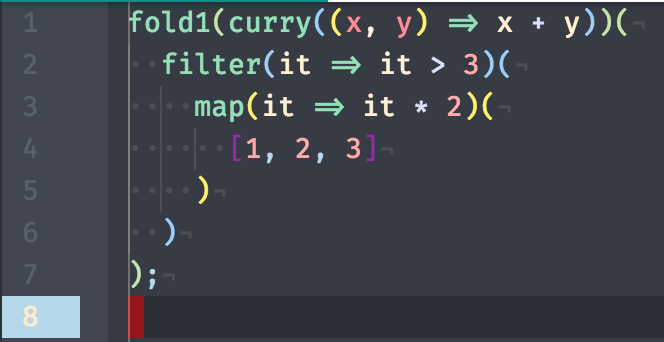
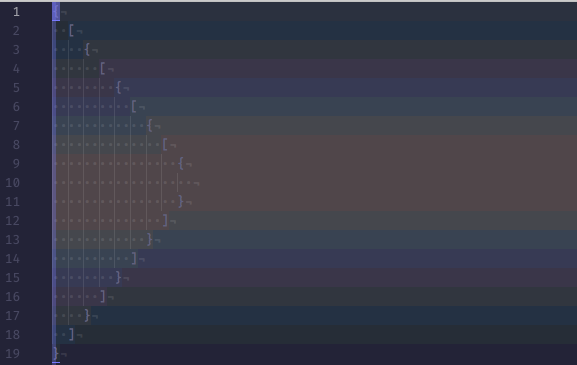
major: use highights instead of overlays

diff --git a/styles/rainbow.less b/styles/rainbow.less
@@ -4,74 +4,36 @@
 // for a full listing of what's available.
 @import "ui-variables";
 
-atom-overlay.rainbow .rainbow-item {
-  position: absolute;
-  top: -1.5em;
-  right: 0.01em;
-
-  &.rainbow-level-1 {
-    color: @ui-site-color-1;
+.highlight.rainbow {
+  &.rainbow-level-1 .region {
+    background-color: fadeout(@ui-site-color-1, 94%);
   }
 
-  &.rainbow-level-2 {
-    color: @ui-site-color-2;
+  &.rainbow-level-2 .region {
+    background-color: fadeout(@ui-site-color-2, 94%);
   }
 
-  &.rainbow-level-3 {
-    color: @ui-site-color-3;
+  &.rainbow-level-3 .region {
+    background-color: fadeout(@ui-site-color-3, 94%);
   }
 
-  &.rainbow-level-4 {
-    color: @ui-site-color-4;
+  &.rainbow-level-4 .region {
+    background-color: fadeout(@ui-site-color-4, 94%);
   }
 
-  &.rainbow-level-5 {
-    color: @text-color-info;
+  &.rainbow-level-5 .region {
+    background-color: fadeout(@text-color-info, 94%);
   }
 
-  &.rainbow-level-6 {
-    color: @text-color-success;
+  &.rainbow-level-6 .region {
+    background-color: fadeout(@text-color-success, 94%);
   }
 
-  &.rainbow-level-7 {
-    color: @text-color-warning;
+  &.rainbow-level-7 .region {
+    background-color: fadeout(@text-color-warning, 94%);
   }
 
-  &.rainbow-level-8 {
-    color: @text-color-error;
+  &.rainbow-level-8 .region {
+    background-color: fadeout(@text-color-error, 94%);
   }
 }
-
-// atom-text-editor.rainbow::shadow .rainbow {
-//   &[data-rainbow-level="0"] {
-//     color: @ui-site-color-1;
-//   }
-//
-//   &[data-rainbow-level="1"] {
-//     color: @ui-site-color-2;
-//   }
-//
-//   &[data-rainbow-level="2"] {
-//     color: @ui-site-color-3;
-//   }
-//
-//   &[data-rainbow-level="3"] {
-//     color: @ui-site-color-4;
-//   }
-//
-//   &[data-rainbow-level="4"] {
-//     color: @text-color-info;
-//   }
-//
-//   &[data-rainbow-level="5"] {
-//     color: @text-color-success;
-//   }
-//
-//   &[data-rainbow-level="6"] {
-//     color: @text-color-warning;
-//   }
-//
-//   &[data-rainbow-level="7"] {
-//     color: @text-color-error;
-//   }
-// }

diff --git a/lib/rainbow.js b/lib/rainbow.js
@@ -1,7 +1,6 @@
 'use babel'
 
-import {CompositeDisposable} from 'atom'
-import view from './view'
+import {CompositeDisposable, Range} from 'atom'
 import debounce from 'lodash.debounce'
 import escapeRegexp from 'escape-string-regexp'
 
@@ -23,9 +22,11 @@ export default {
 
   activate () {
     this.subscriptions = new CompositeDisposable()
-    let disposable = atom.workspace.observeTextEditors(editor => {
+    const disposable = atom.workspace.observeTextEditors(editor => {
       if (!this.markers.get(editor)) this.markers.set(editor, [])
-      let run = debounce(() => this.run(editor), DELAY)
+
+      const run = debounce(() => this.run(editor), DELAY)
+
       run()
       this.subscriptions.add(editor.onDidStopChanging(run))
     })
@@ -38,7 +39,7 @@ export default {
   },
 
   unmark (editor) {
-    let markers = this.markers.get(editor)
+    const markers = this.markers.get(editor)
     while (markers.length) markers.pop().destroy()
   },
 
@@ -48,14 +49,29 @@ export default {
 
   mark (editor) {
     let level = 0
+    const startPoints = []
+
     editor.scan(PAIRS_REG_EXP, result => {
-      if (PAIRS[result.matchText]) level++
-      let marker = editor.markBufferRange(result.range, {
+      if (PAIRS[result.matchText]) {
+        startPoints.push(result.range.start)
+        level++
+        return
+      }
+
+      const start = startPoints.pop()
+      console.log('RANGE', new Range(start, result.range.end))
+      const marker = editor.markBufferRange(new Range(start, result.range.end), {
         invalidate: 'never'
       })
+
       this.markers.get(editor).push(marker)
-      view(editor, marker, result.matchText, level)
-      if (!PAIRS[result.matchText]) level--
+
+      editor.decorateMarker(marker, {
+        class: `rainbow rainbow-level-${level}`,
+        type: 'highlight'
+      })
+
+      level--
     })
   },
 

diff --git a/README.md b/README.md
@@ -4,9 +4,8 @@
 
 ![screenshot](https://raw.githubusercontent.com/johngeorgewright/atom-rainbow/master/preview.png)
 
-This is not ready for use yet, hold your horses. If you do still want to beta test this, run `apm install johngeorgewright/atom-rainbow`.
+This is taking me a long time to create. Until it's finished feel free to try it using `apm install johngeorgewright/atom-rainbow`.
 
-Issues before release:
+## Todo
 
-- [ ] Overlays do not scroll past the screen successfully
-- [ ] Clicking on an overlay does nothing
+- [ ] Configure bracket reg exp per language
